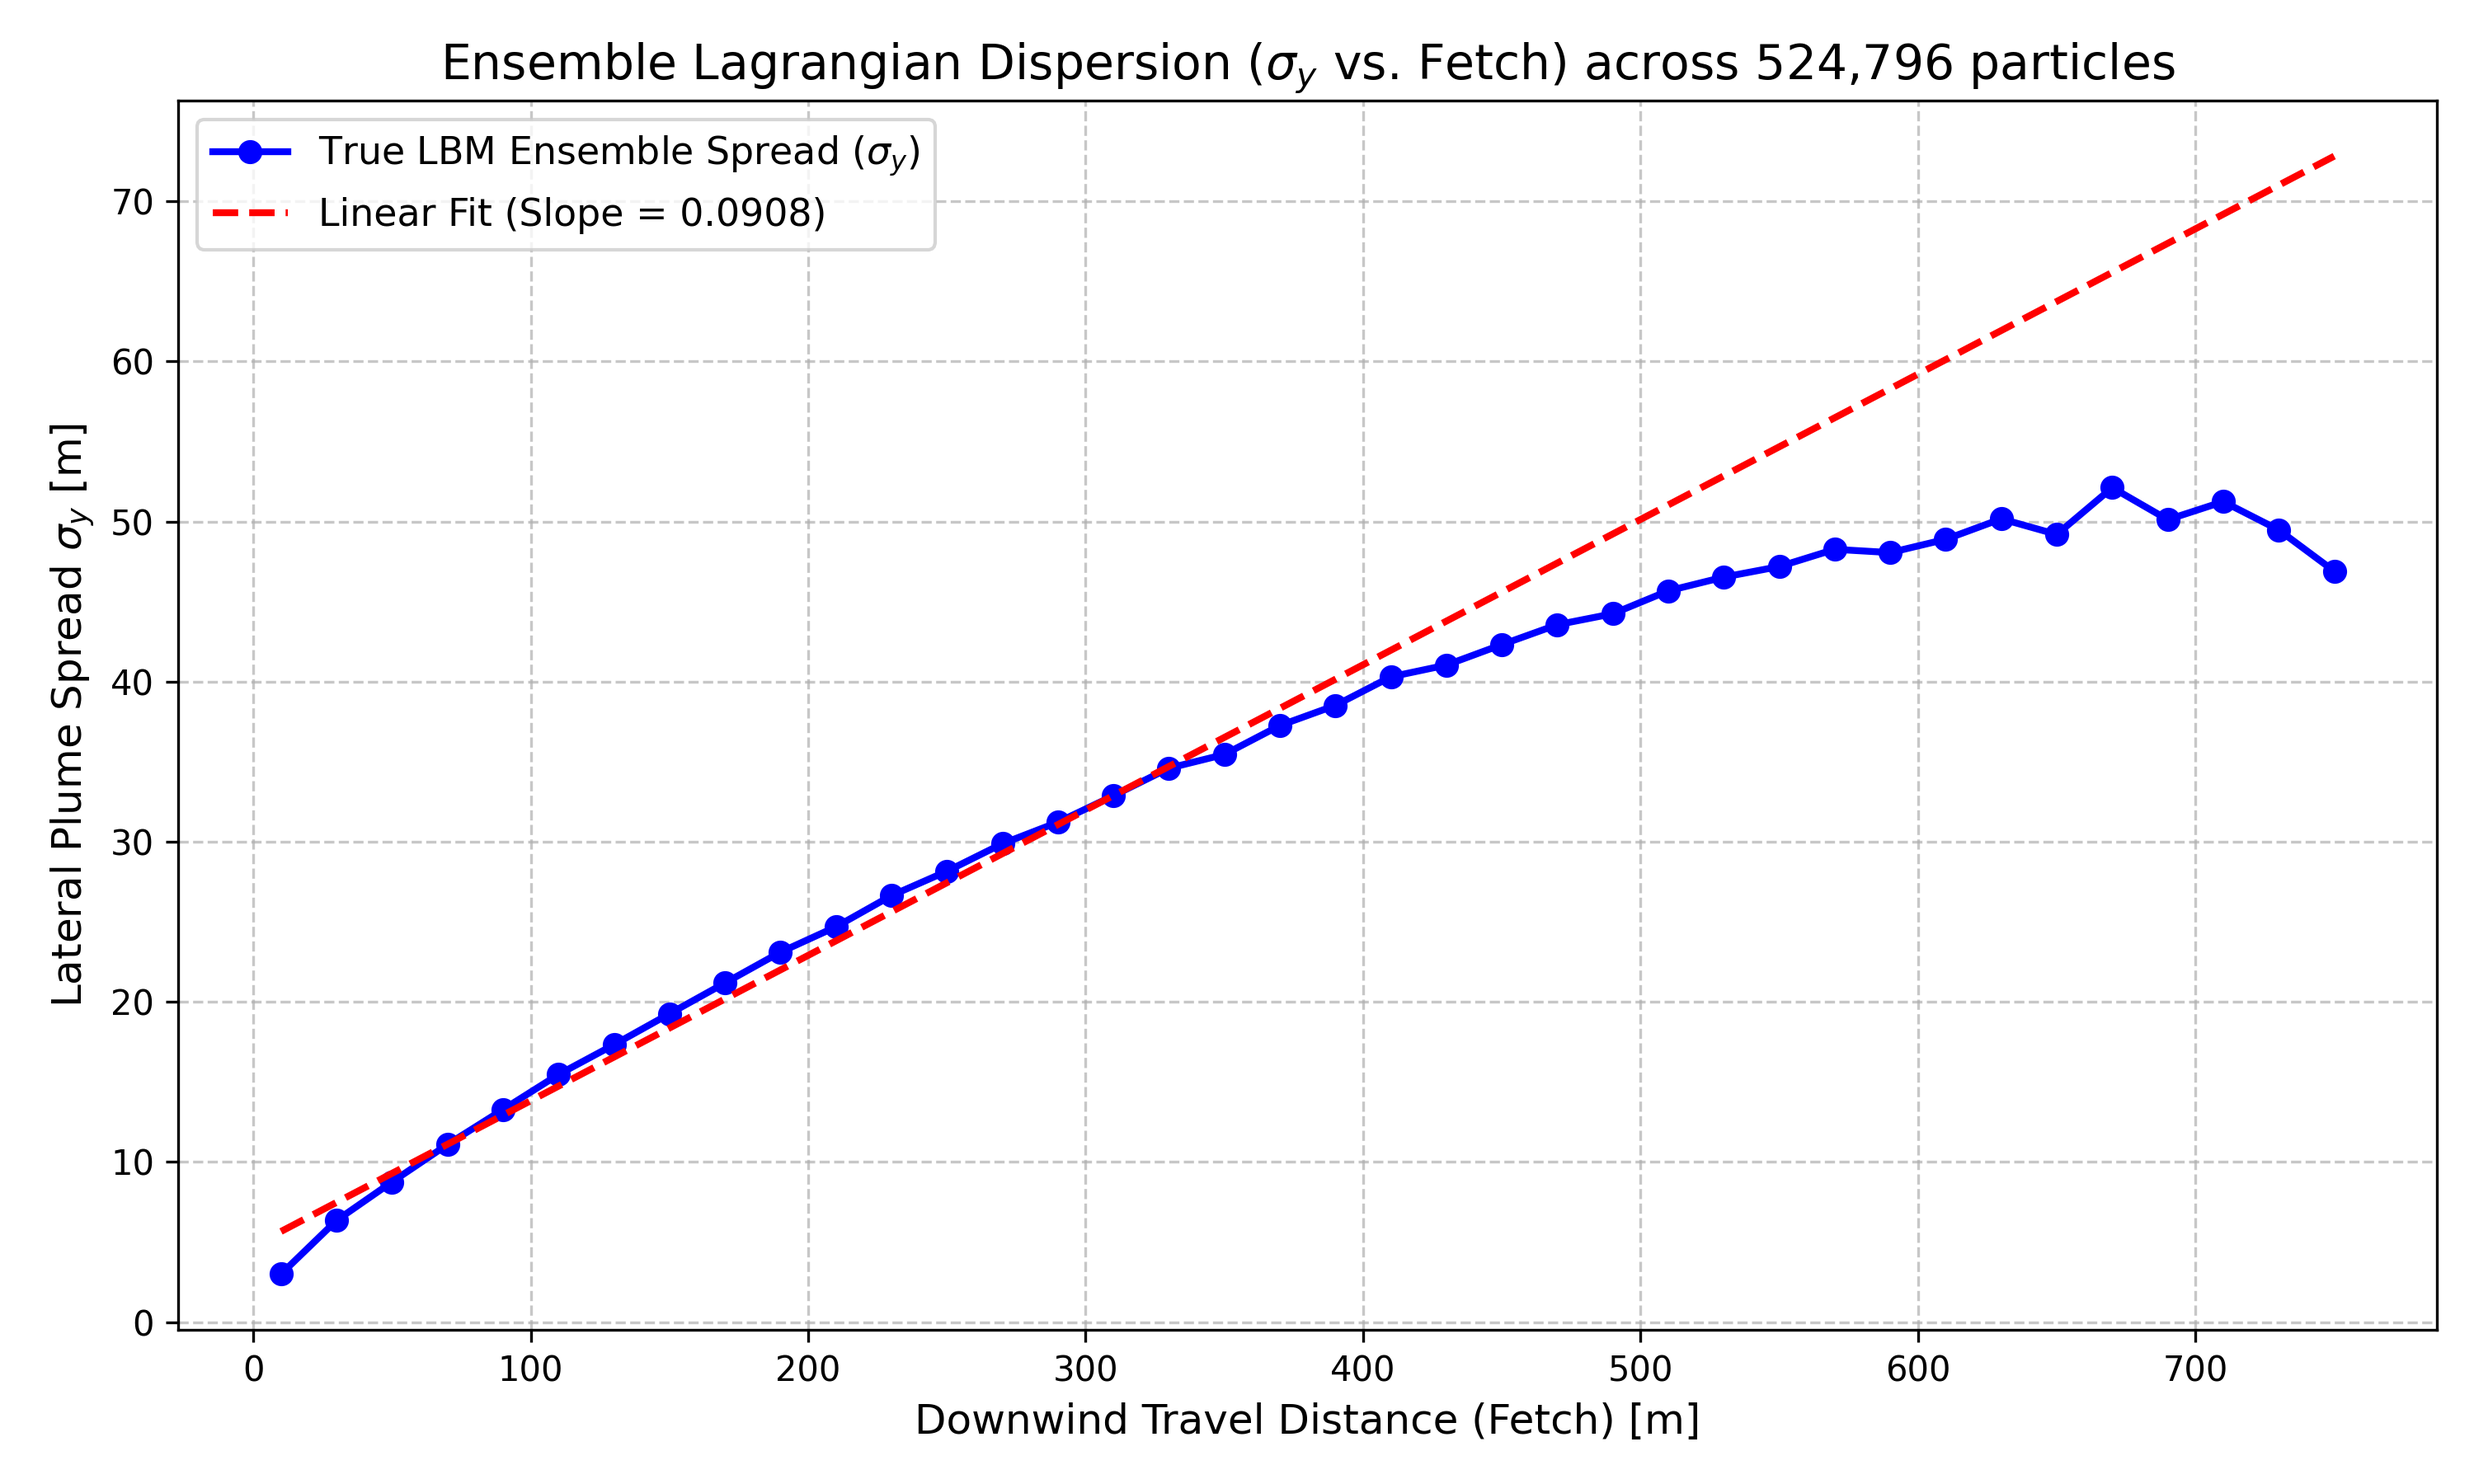
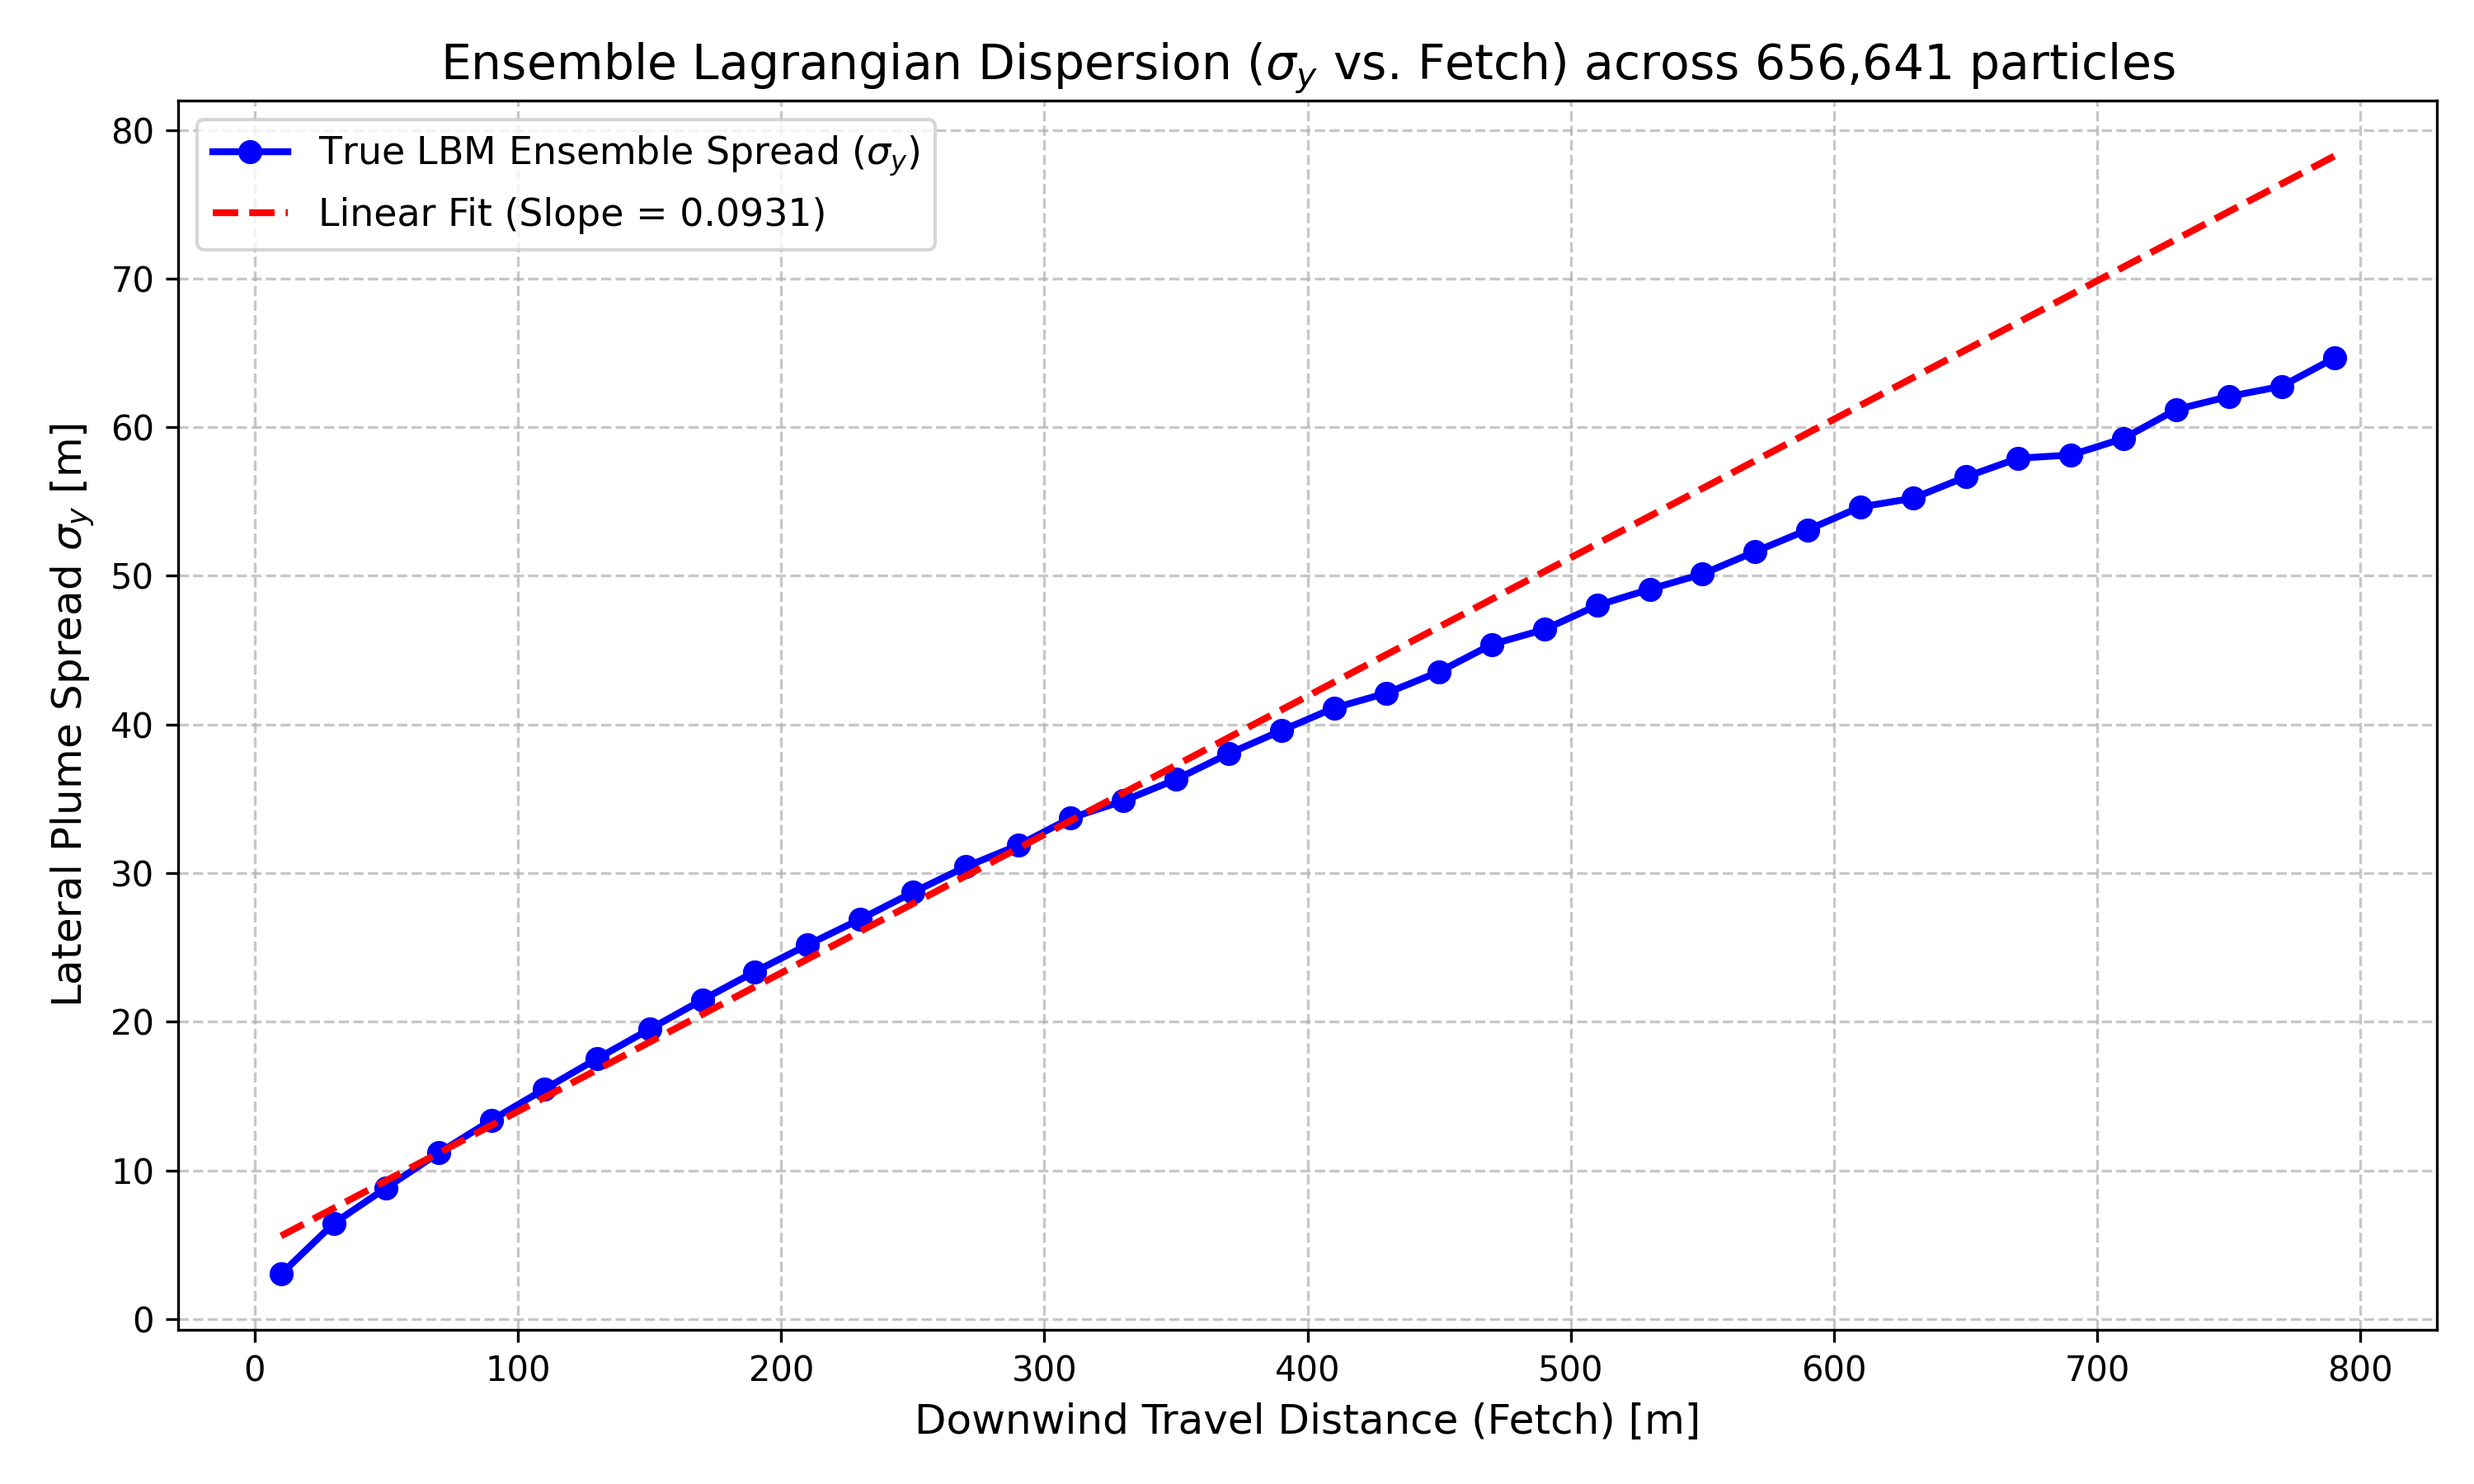
basic statistics and scatter calculation and analysis

diff --git a/scripts/analyze_inflow_statistics.py b/scripts/analyze_inflow_statistics.py
@@ -1,0 +1,90 @@
+import os
+import sys
+import numpy as np
+import matplotlib.pyplot as plt
+
+# Ensure Python can find the modular packages
+sys.path.append(os.path.abspath(os.path.join(os.path.dirname(__file__), '..')))
+from data_loaders.lbm_parsers import XZMatrixParser
+from physics_core.turbulence import calc_sigma_v
+
+def main():
+    # 1. Paths and Configuration
+    base_out = r"Z:\20260527_output_flat_3072"
+    t_step = "00180000"  # The specific suffix for time step 1200
+    
+    um_csv = os.path.join(base_out, f"xz_yav_um{t_step}_0000.csv")
+    vm_csv = os.path.join(base_out, f"xz_yav_vm{t_step}_0000.csv")
+    vv_csv = os.path.join(base_out, f"xz_yav_vv{t_step}_0000.csv")
+    
+    output_dir = r"../figures/flat_domain/inflow_analysis"
+    os.makedirs(output_dir, exist_ok=True)
+
+    dx_lbm = 2.0
+    dz_lbm = 2.0
+    x_targets = [0, 300, 600] # Locations to extract vertical columns
+    colors = ['#d62728', '#2ca02c', '#1f77b4'] # Red, Green, Blue
+
+    print(f"Loading XZ fluid matrices for step {t_step}...")
+    um_mat = XZMatrixParser.parse_file(um_csv)
+    vm_mat = XZMatrixParser.parse_file(vm_csv)
+    vv_mat = XZMatrixParser.parse_file(vv_csv)
+    
+    if um_mat is None or vm_mat is None or vv_mat is None:
+        print("[ERROR] Failed to load one or more XZ matrices. Check file paths.")
+        return
+
+    z_indices = np.arange(um_mat.shape[0])
+    z_heights = z_indices * dz_lbm
+
+    # 2. Generate the Side-by-Side Plot
+    fig, (ax1, ax2) = plt.subplots(1, 2, figsize=(12, 6), sharey=True)
+    fig.suptitle(f"Boundary Layer & Turbulence Development over Flat Fetch (T={t_step[2:6]})", fontsize=15, fontweight='bold')
+
+    for x_loc, color in zip(x_targets, colors):
+        # Map X-coordinate to grid index
+        x_idx = min(int(x_loc / dx_lbm), um_mat.shape[1] - 1)
+        
+        # Extract columns
+        u_profile = um_mat[:, x_idx]
+        vm_profile = vm_mat[:, x_idx]
+        vv_profile = vv_mat[:, x_idx]
+        
+        # Calculate true resolved lateral turbulence
+        sig_v_profile = calc_sigma_v(vv_profile, vm_profile)
+        
+        # Plot Mean Streamwise Velocity (U)
+        ax1.plot(u_profile, z_heights, color=color, linewidth=2.5, 
+                 label=f'Fetch X = {x_loc}m')
+        
+        # Plot Lateral Turbulence (Sigma_v)
+        ax2.plot(sig_v_profile, z_heights, color=color, linewidth=2.5, 
+                 label=f'Fetch X = {x_loc}m')
+
+    # Formatting Panel 1 (Mean Wind)
+    ax1.set_title("Mean Streamwise Wind Speed ($U$)", fontsize=13)
+    ax1.set_xlabel("Velocity $U$ [m/s]", fontsize=12)
+    ax1.set_ylabel("Domain Height Z [m]", fontsize=12)
+    ax1.grid(True, linestyle=':', alpha=0.7)
+    ax1.legend(loc='upper left')
+    ax1.set_xlim(0, np.max(um_mat) * 1.1)
+
+    # Formatting Panel 2 (Turbulence)
+    ax2.set_title(r"Resolved Lateral Turbulence ($\sigma_v$)", fontsize=13)
+    ax2.set_xlabel(r"Velocity Fluctuation $\sigma_v$ [m/s]", fontsize=12)
+    ax2.grid(True, linestyle=':', alpha=0.7)
+    ax2.legend(loc='upper right')
+    
+    # Optional: Highlight the "target" Kljun turbulence (0.25 m/s)
+    ax2.axvline(x=0.25, color='k', linestyle='--', alpha=0.6, 
+                label=r'Kljun Required $\sigma_v$ (~0.25)')
+    ax2.legend(loc='upper right')
+
+    plt.tight_layout()
+    save_path = os.path.join(output_dir, f"inflow_turbulence_development_{t_step}.png")
+    plt.savefig(save_path, dpi=300)
+    
+    print(f"Success! Saved inflow development plot to: {save_path}")
+
+if __name__ == "__main__":
+    main()

diff --git a/scripts/plot_lateral_variance_scatter.py b/scripts/plot_lateral_variance_scatter.py
@@ -1,0 +1,88 @@
+import os
+import sys
+import numpy as np
+import matplotlib.pyplot as plt
+
+# Ensure Python can find the modular packages
+sys.path.append(os.path.abspath(os.path.join(os.path.dirname(__file__), '..')))
+from data_loaders.lbm_parsers import XZMatrixParser
+from physics_core.turbulence import calc_sigma_v
+
+def main():
+    # 1. Paths
+    base_out = r"Z:\20260527_output_flat_3072"
+    vm_csv = os.path.join(base_out, "xz_yav_vm00180000_0000.csv")
+    vv_csv = os.path.join(base_out, "xz_yav_vv00180000_0000.csv")
+    
+    output_dir = r"../figures/flat_domain/metrics"
+    os.makedirs(output_dir, exist_ok=True)
+
+    # 2. Configuration
+    sensor_x = 600.0
+    dx_lbm = 2.0
+    dz_lbm = 2.0
+    sensor_heights = [10, 20, 30, 40, 48, 56]
+
+    print("Loading XZ fluid matrices...")
+    vm_mat = XZMatrixParser.parse_file(vm_csv)
+    vv_mat = XZMatrixParser.parse_file(vv_csv)
+    
+    if vm_mat is None or vv_mat is None:
+        print("[ERROR] Failed to load XZ matrices. Exiting.")
+        sys.exit(1)
+
+    # 3. Extract the Vertical Column at X = 600m
+    x_idx = min(int(sensor_x / dx_lbm), vm_mat.shape[1] - 1)
+    z_indices = np.arange(vm_mat.shape[0])
+    z_heights = z_indices * dz_lbm
+
+    sigma_v_profile = []
+    
+    print(f"Calculating true resolved sigma_v for Virtual Tower at X={sensor_x}m...")
+    for z in z_indices:
+        # Calculate true variance using Reynolds decomposition: sqrt(vv - vm^2)
+        sv = calc_sigma_v(vv_mat[z, x_idx], vm_mat[z, x_idx])
+        sigma_v_profile.append(sv)
+
+    # 4. Generate the Seminar Plot
+    fig, ax = plt.subplots(figsize=(7, 9))
+    
+    # Plot the full profile as a scatter plot
+    ax.scatter(sigma_v_profile, z_heights, color='royalblue', alpha=0.8, 
+               edgecolors='black', s=50, label=r'Resolved Grid $\sigma_v$')
+    
+    # Add a faint connecting line to show the profile shape
+    ax.plot(sigma_v_profile, z_heights, color='royalblue', alpha=0.3, linewidth=2)
+
+    # 5. Overlay the Horizontal Sensor Lines
+    # Use a visually distinct color palette for the heights
+    colors = ['#d62728', '#ff7f0e', '#2ca02c', '#9467bd', '#8c564b', '#e377c2']
+    
+    for h, c in zip(sensor_heights, colors):
+        ax.axhline(y=h, color=c, linestyle='--', linewidth=2, alpha=0.8, 
+                   label=rf'Sensor $Z_m$ = {h}m')
+
+    # Formatting
+    ax.set_title(rf"Vertical Profile of Resolved Lateral Turbulence ($\sigma_v$)"+"\n"+f"at Virtual Tower (X={sensor_x}m)", 
+                 fontsize=14, pad=15, fontweight='bold')
+    ax.set_xlabel(r"Resolved Lateral Turbulence $\sigma_v$ [m/s]", fontsize=12, fontweight='bold')
+    ax.set_ylabel("Domain Height Z [m]", fontsize=12, fontweight='bold')
+    
+    ax.set_ylim(0, max(z_heights))
+    
+    # Optional: Force the X-axis to stretch to 0.25 to visually show the "SGS Gap"
+    # ax.set_xlim(0, 0.26) 
+    
+    ax.grid(True, linestyle=':', alpha=0.7)
+
+    # Place legend cleanly outside the plot
+    ax.legend(loc='center left', bbox_to_anchor=(1.02, 0.5), fontsize=11, frameon=True)
+
+    plt.tight_layout()
+    save_path = os.path.join(output_dir, "resolved_sigmav_vertical_profile.png")
+    plt.savefig(save_path, dpi=300, bbox_inches='tight')
+    
+    print(f"Success! Saved profile plot to: {save_path}")
+
+if __name__ == "__main__":
+    main()

diff --git a/scripts/calculate_plume_dispersion.py b/scripts/calculate_plume_dispersion.py
@@ -11,7 +11,7 @@ def main():
     # 1. Paths
     bin_dir = r"Z:\20260527_particle_flat_3072"
     pos_file = r"Z:\particle_position\particle_position.txt"
-    time_step = 1400
+    time_step = 1800
     
     idx_file = os.path.join(bin_dir, f"index0-{time_step}.bin")
     pos_file_bin = os.path.join(bin_dir, f"position0-{time_step}.bin")
